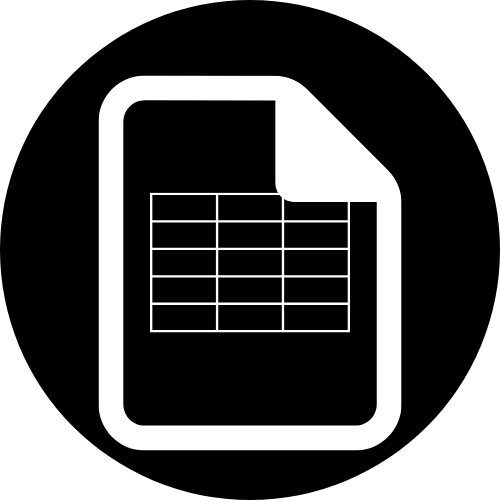
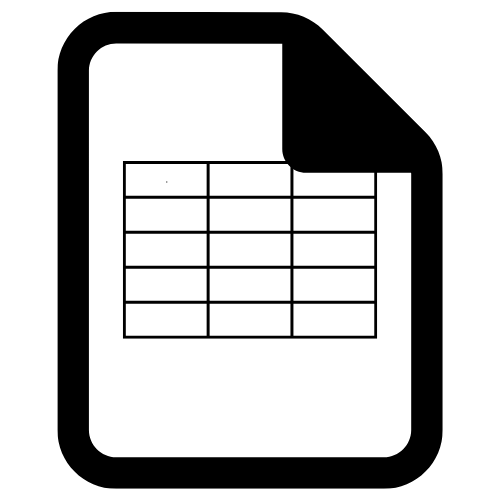
Cosmetic updates to demo page

diff --git a/packages/demo/app/page.tsx b/packages/demo/app/page.tsx
@@ -1,5 +1,6 @@
 import { BooksDemo } from '@/components/demo/books-demo';
 import { FaGithub } from "react-icons/fa";
+import Image from "next/image";
 
 export default function Home() {
     // Page content variables
@@ -35,7 +36,13 @@ export default function Home() {
                 <div className="container mx-auto h-full">
                     <div className="flex justify-between items-center px-4 h-full">
                         <a href={process.env.NEXT_PUBLIC_BASE_PATH || "/"} className="flex items-center gap-2 text-2xl font-bold text-black hover:text-gray-700 transition-colors">
-                            <img src={`${process.env.NEXT_PUBLIC_BASE_PATH || ""}/table.png`} alt={pageContent.header.logoAlt} className="w-10 h-10" />
+                            <Image 
+                                src={`/table.png?v=${new Date().getTime()}`}
+                                alt={pageContent.header.logoAlt} 
+                                width={40} 
+                                height={40} 
+                                priority
+                            />
                             {pageContent.header.title}
                         </a>
                         <a href={pageContent.links.github} target="_blank" rel="noopener noreferrer" className="flex items-center hover:text-gray-600 transition-colors">
